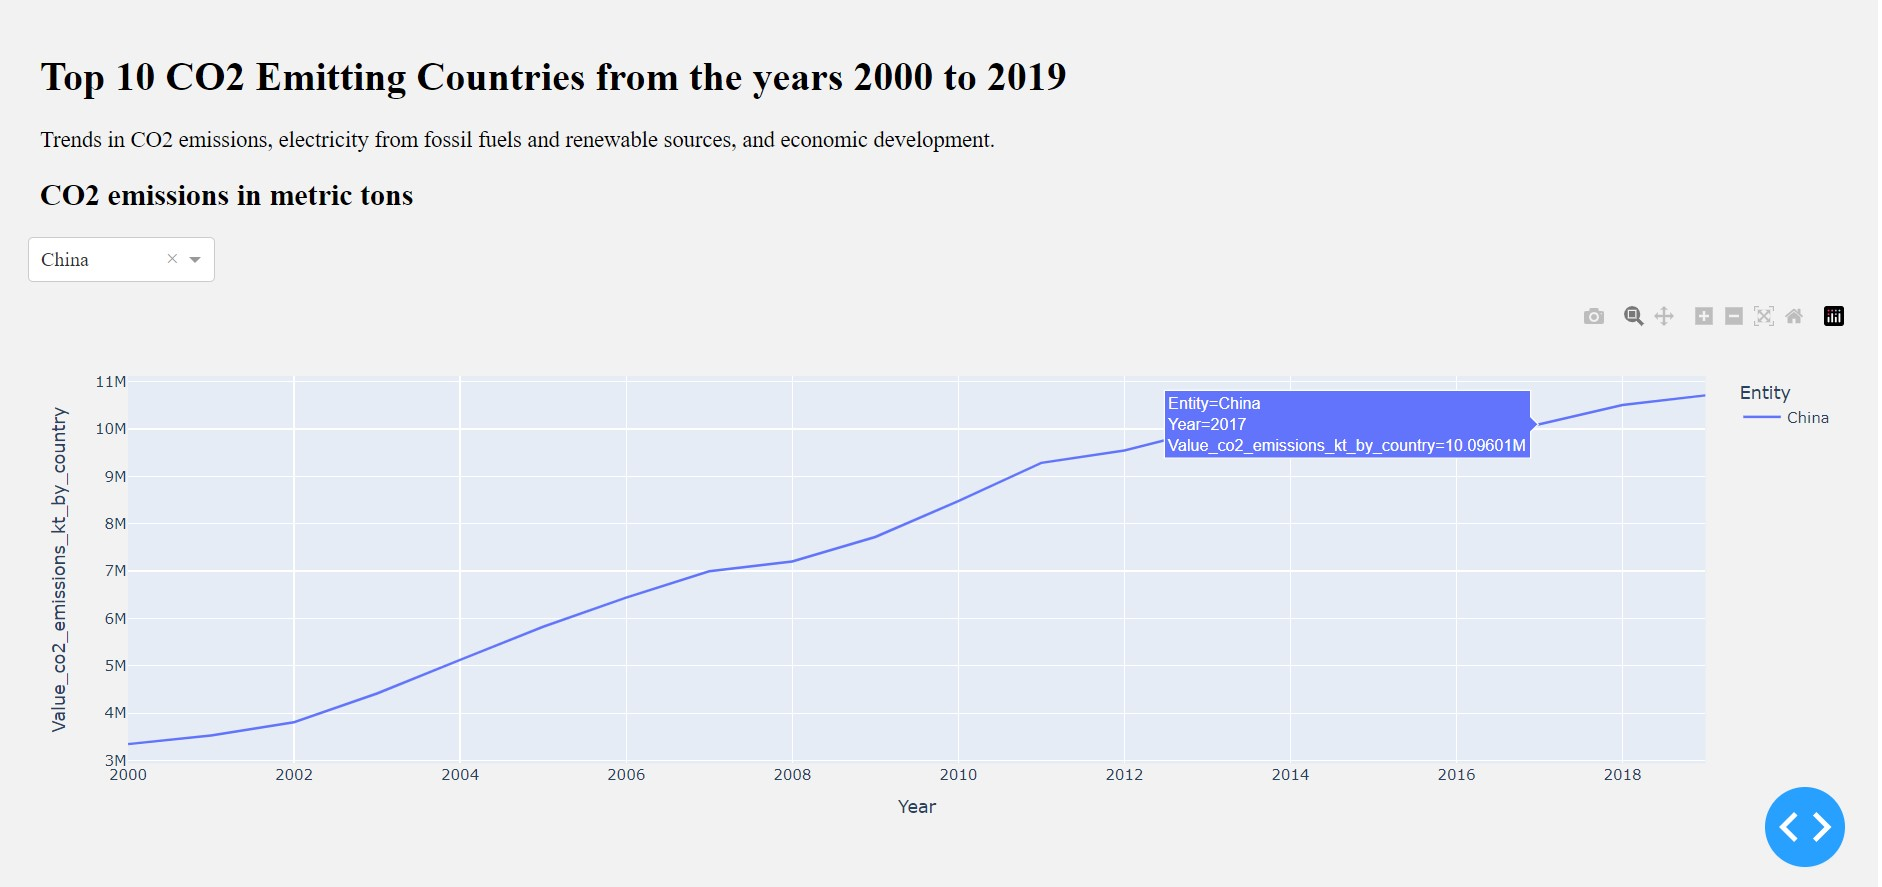
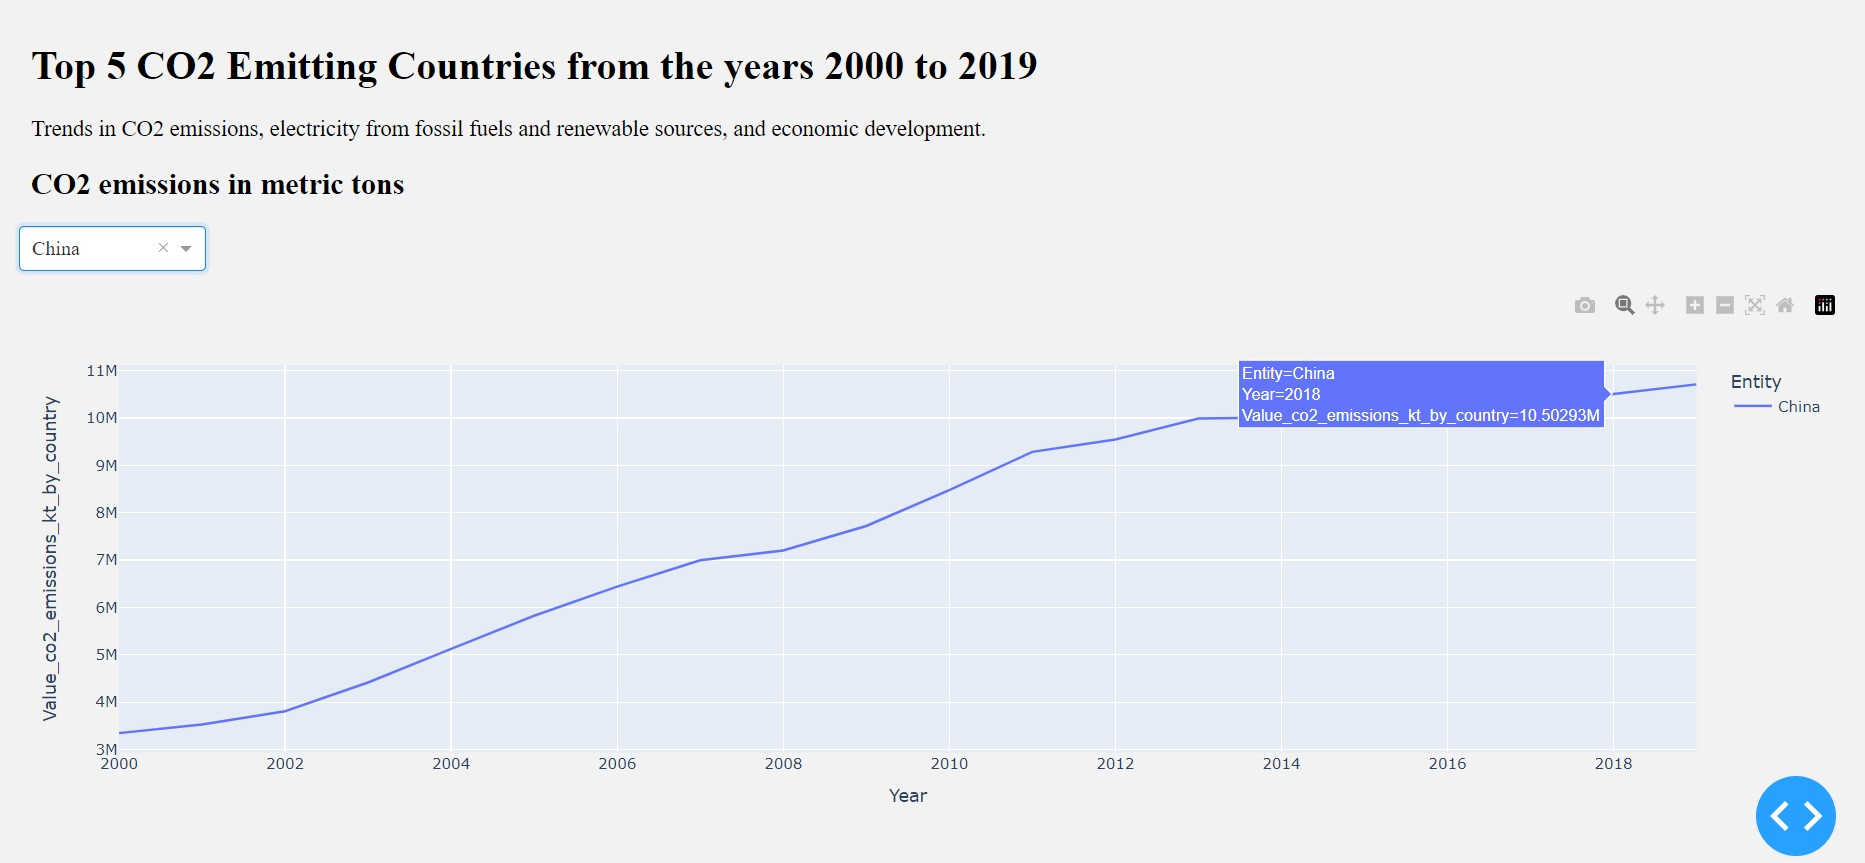
update number of countries

diff --git a/Src/dashboard.py b/Src/dashboard.py
@@ -12,11 +12,11 @@ df = pd.read_csv("clean_data.csv")
 
 # Countries with the highest co2 emissions
 average_co2_emission_by_country = df.groupby('Entity')['Value_co2_emissions_kt_by_country'].mean()
-top_10 = average_co2_emission_by_country.nlargest(10)
-filtered_df = df[df['Entity'].isin(top_10.index)]
+top_5 = average_co2_emission_by_country.nlargest(5)
+filtered_df = df[df['Entity'].isin(top_5.index)]
 
 # Create charts and table
-fig = px.bar(filtered_df, x="Year", y="Value_co2_emissions_kt_by_country", color="Entity", barmode="group")
+fig = px.line(filtered_df, x="Year", y="Value_co2_emissions_kt_by_country", color="Entity") 
 fig_II = px.line(filtered_df, x='Year', y='Electricity from renewables (TWh)', color='Entity')
 fig_III = px.line(filtered_df, x='Year', y='Electricity from fossil fuels (TWh)', color='Entity')
 fig_IV = px.line(filtered_df, x='Year', y='gdp_per_capita', color='Entity')
@@ -37,7 +37,7 @@ app.layout = html.Div(
         'padding': '22px' 
     },
     children=[
-        html.H1(children='Top 10 CO2 Emitting Countries from the years 2000 to 2019',style={'margin-left': '10px'}),
+        html.H1(children='Top 5 CO2 Emitting Countries from the years 2000 to 2019',style={'margin-left': '10px'}),
         html.Span("Trends in CO2 emissions, electricity from fossil fuels and renewable sources, and economic development.", style={'margin-left': '10px','font-size': '18px'}),
         html.H2(children='CO2 emissions in metric tons',style={'margin-left': '10px'}),
     
@@ -89,7 +89,7 @@ app.layout = html.Div(
 )
 def update_output(value):
     if value == "All Countries":
-        fig = px.bar(filtered_df, x="Year", y="Value_co2_emissions_kt_by_country", color="Entity", barmode="group")
+        fig = px.line(filtered_df, x="Year", y="Value_co2_emissions_kt_by_country", color="Entity")
         fig.update_layout(paper_bgcolor='#f2f2f2')
     else:
         filtered_table = df.loc[df['Entity']==value, :]
@@ -104,7 +104,7 @@ def update_output(value):
 
 def update_output_II(value):
     if value == "All Countries":
-        fig_II = px.bar(filtered_df, x="Year", y="Electricity from renewables (TWh)", color="Entity", barmode="group")
+        fig_II = px.line(filtered_df, x="Year", y="Electricity from renewables (TWh)", color="Entity")
         fig_II.update_layout(paper_bgcolor='#f2f2f2')
     else:
         filtered_table = df.loc[df['Entity']==value, :]
@@ -118,7 +118,7 @@ def update_output_II(value):
 )
 def update_output_III(value):
     if value == "All Countries":
-        fig_III = px.bar(filtered_df, x="Year", y="Electricity from fossil fuels (TWh)", color="Entity", barmode="group")
+        fig_III = px.line(filtered_df, x="Year", y="Electricity from fossil fuels (TWh)", color="Entity")
         fig_III.update_layout(paper_bgcolor='#f2f2f2')
     else:
         filtered_table = df.loc[df['Entity']==value, :]
@@ -132,7 +132,7 @@ def update_output_III(value):
 )
 def update_output_IV(value):
     if value == "All Countries":
-        fig_IV = px.bar(filtered_df, x="Year", y="gdp_per_capita", color="Entity", barmode="group")
+        fig_IV = px.line(filtered_df, x="Year", y="gdp_per_capita", color="Entity")
         fig_IV.update_layout(paper_bgcolor='#f2f2f2')
     else:
         filtered_table = filtered_df.loc[df['Entity']==value, :]

diff --git a/README.md b/README.md
@@ -1,6 +1,6 @@
-### Global Data on Sustainable Energy (2000-2020)
+### Global Data on Sustainable Energy (2000-2019)
 
-Build a dasboard using the Dash and Plotly libraries to analyze trends in CO2 emissions, electricity from fossil fuels and renewable sources, and economic development of the 10 countries that emitted the most CO2 between the years 2000 and 2020.
+Build a dasboard using the Dash and Plotly libraries to analyze trends in CO2 emissions, electricity from fossil fuels and renewable sources, and economic development of the 5 countries that emitted the most CO2 between the years 2000 and 2019.
 
 
 Data from the analyzed countries can be viewed together or separately.
